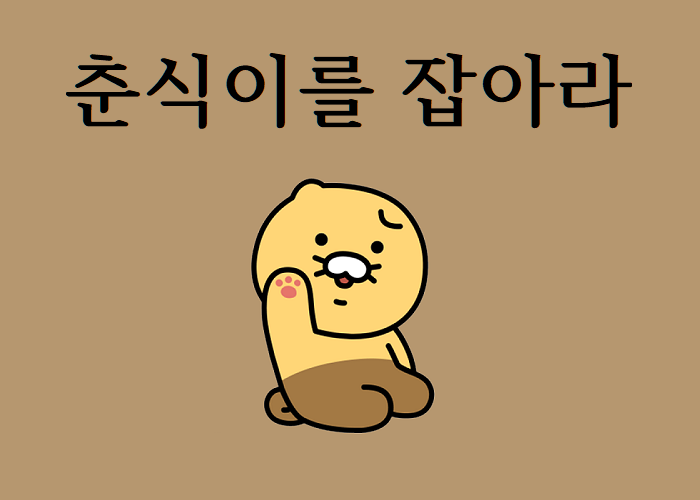
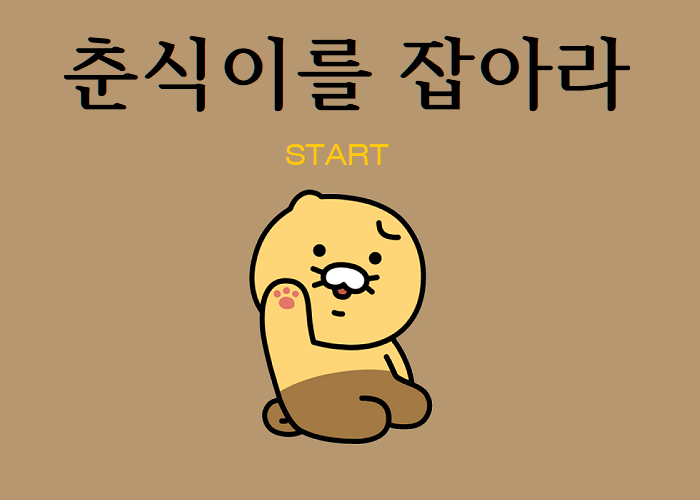
라이언 추가

Changed region(s): [[0.33, 0.36, 0.63, 0.9], [0.09, 0.06, 0.57, 0.33], [0.57, 0.06, 0.9, 0.27]]

diff --git a/Team2 - Lotto/src/Chunsik.java b/Team2 - Lotto/src/Chunsik.java
@@ -11,206 +11,235 @@ import java.util.Random;
 
 import javax.swing.ImageIcon;
 import javax.swing.JButton;
+import javax.swing.JFrame;
 import javax.swing.JLabel;
-import javax.swing.JPanel;
+import javax.swing.JOptionPane;
 import javax.swing.Timer;
 
-class ClickMe3 extends JPanel {
-	private JButton bt; // 설명버튼
-	private JButton btn; // 춘식이
-	private JButton btn2; // 안보이는 버튼
-	private JLabel lbltime;
-	private JLabel sign1;
-	private JLabel sign2;
-	private int time = 30;
+class ClickMe3 extends JFrame {
+	private JButton start;
+	private JButton chunsik;
+	private JButton jayG;
+	private JButton ryan;
+	private JButton restart;
+	private JLabel clearPage;
+	private JLabel losePage;
 	private Timer timer;
+	private JLabel lbltime;
+	private int time = 30;
 	private boolean gameStart = false;
-	private JButton btn3;
 
 	public ClickMe3() {
-		
-		ImageIcon hi = convertToIcon("게임설명.png", 800, 600);
-		ImageIcon icon = convertToIconGIF("춘식이.gif");
-//		ImageIcon icon1 = convertToIcon("시작.png", 100, 40);
-		ImageIcon icon2 = convertToIcon("다시3.png", 100, 40);
-		ImageIcon icon3 = convertToIcon("성공.png", 800, 600);
-		ImageIcon icon4 = convertToIcon("실패.png", 800, 600);
-		ImageIcon icon5 = convertToIconGIF("제이지.gif");
-		
+
+		ImageIcon startImage = convertToIcon("게임설명.png", 800, 600);
+		ImageIcon chunsikImage = convertToIconGIF("춘식이.gif");
+		ImageIcon jayGImage = convertToIconGIF("제이지.gif");
+		ImageIcon ryanImage = convertToIconGIF("라이언.gif");
+		ImageIcon restartImage = convertToIcon("다시.png", 150, 60);
+		ImageIcon clearPageImage = convertToIcon("성공.png", 800, 600);
+		ImageIcon losePageImage = convertToIcon("실패.png", 800, 600);
+
 		lbltime = new JLabel();
-		sign1 = new JLabel(icon3);
-		sign2 = new JLabel(icon4);
+		clearPage = new JLabel(clearPageImage);
+		losePage = new JLabel(losePageImage);
 		lbltime.setBounds(25, 20, 50, 50); // 시계 위치
 
-		ImagePanel pnl = new ImagePanel(new Methods().convertToIcon("겨울배경.png", 800, 600).getImage());
-		add(pnl); // 백그라운드 이미지 추가
-		
+		MyImageBackgroundPanel pnl = new MyImageBackgroundPanel(new Methods().background("겨울배경.png"));
+		add(pnl);
 
 		pnl.setLayout(null);
 		pnl.setPreferredSize(new Dimension(800, 600));
-		bt = new JButton();
-		btn = new JButton();
-		btn2 = new JButton("다시하기");
-		btn2.setBackground(new Color(0, 0, 0, 0));
-		btn3 = new JButton();
-		btn.setOpaque(false);
-		btn2.setBorderPainted(false);
-		btn2.setOpaque(false);
-		btn3.setOpaque(false);
-		bt.setIcon(hi); // 게임설명
-		btn.setIcon(icon); // 춘식이
-		btn2.setIcon(icon2); // 다시하기
-		btn3.setIcon(icon5);
-		
+		start = new JButton();
+		chunsik = new JButton();
+		jayG = new JButton();
+		ryan = new JButton();
+		restart = new JButton();
+		restart.setBackground(new Color(0, 0, 0, 0));
+		chunsik.setOpaque(false);
+		restart.setBorderPainted(false);
+		restart.setOpaque(false);
+		jayG.setOpaque(false);
+		ryan.setOpaque(false);
+		start.setIcon(startImage);
+		chunsik.setIcon(chunsikImage);
+		jayG.setIcon(jayGImage);
+		ryan.setIcon(ryanImage);
+		restart.setIcon(restartImage);
 
-		
-		sign1.setBounds(0, 0, 800, 600);
-		sign2.setBounds(0, 0, 800, 600);
-		btn.setBackground(new Color(255, 0, 0, 0));
-		btn3.setBackground(new Color(255, 0, 0, 0));
-		btn.setBorderPainted(false); // 테두리 없애기
-		btn3.setBorderPainted(false);
-		btn.setFocusPainted(false); // << 얘뭐임? ----------------------------------------------------궁금함
-		btn3.setFocusPainted(false); // 띠 없애기
-		bt.setBounds(0, 0, 800, 600); // 게임 설명으로 시작
-		btn.setBounds(280, 180, 120, 120); // 춘식
-		btn2.setBounds(650, 500, 130, 50); // 다시하기 버튼
-		btn3.setBounds(100, 100, 120, 120);
+		clearPage.setBounds(0, 0, 800, 600);
+		losePage.setBounds(0, 0, 800, 600);
+		chunsik.setBackground(new Color(255, 0, 0, 0));
+		jayG.setBackground(new Color(255, 0, 0, 0));
+		ryan.setBackground(new Color(255, 0, 0, 0));
+		chunsik.setBorderPainted(false);
+		chunsik.setFocusPainted(false);
+		jayG.setBorderPainted(false);
+		jayG.setFocusPainted(false);
+		ryan.setBorderPainted(false);
+		ryan.setFocusPainted(false);
+		restart.setBorderPainted(false); // 테두리 없애기
+		restart.setFocusPainted(false); // 띠 없애기
+		start.setBounds(0, 0, 800, 600);
+		chunsik.setBounds(400, 400, 120, 120);
+		jayG.setBounds(400, 400, 120, 120);
+		ryan.setBounds(400, 400, 120, 120);
+		restart.setBounds(550, 450, 150, 60);
 		pnl.add(lbltime);
-		pnl.add(bt);
-		pnl.add(btn);
-		pnl.add(btn2);
-		pnl.add(btn3);
-		pnl.add(sign1);
-		pnl.add(sign2);
+		pnl.add(start);
+		pnl.add(chunsik);
+		pnl.add(jayG);
+		pnl.add(ryan);
+		pnl.add(restart);
+		pnl.add(clearPage);
+		pnl.add(losePage);
 		lbltime.setFont(new Font("맑은 고딕", Font.BOLD, 30));
-		bt.setVisible(true);
-		btn2.setVisible(false); // 다시하기 감추기
-		btn3.setVisible(false);
-		sign1.setVisible(false);
-		sign2.setVisible(false);
+		start.setVisible(true);
+		jayG.setVisible(false);
+		ryan.setVisible(false);
+		restart.setVisible(false);
+		clearPage.setVisible(false);
+		losePage.setVisible(false);
 		lbltime.setVisible(false);
 
-		timer = new Timer(1000, new ActionListener() {
-			@Override
-			public void actionPerformed(ActionEvent e) {
-				if (!gameStart) {
-//					JOptionPane.showMessageDialog(null, "노는게 좋은 춘식이를 잡아주세요.", "춘식이는 배가 고파요.", JOptionPane.QUESTION_MESSAGE);
-				} else {
-					lbltime.setText(String.valueOf(time));
-					time--;
-					
-				}
-				if (time <= 0) {
-					timer.stop();
-					System.out.println("게임오버");
-					sign2.setVisible(true);
-					btn.setVisible(false);
-					lbltime.setVisible(false);
-					btn2.setVisible(true);
-					btn3.setVisible(false);
-
-				}
-			}
-		});
-		timer.start();
-		
-		Timer timer2 =new Timer(1000, new ActionListener() {
-			@Override
-			public void actionPerformed(ActionEvent e) {
-				Random r = new Random();
-				int x = r.nextInt(400);
-				int y = r.nextInt(400);
-				btn3.setLocation(x, y);
-			}
-		});
-		timer2.start();
-
-		bt.addMouseListener(new MouseAdapter() { // 시작화면 -------------------------------------
+		start.addMouseListener(new MouseAdapter() {
 
 			@Override
 			public void mouseClicked(MouseEvent e) {
 				lbltime.setVisible(true);
 				gameStart = true;
-				bt.setVisible(false);
+				start.setVisible(false);
 				timer.start();
-				btn3.setVisible(true);
+				jayG.setVisible(true);
+				ryan.setVisible(true);
 			}
 
 		});
-		
-		
-		
-		
-		btn.addMouseListener(new MouseAdapter() {
+
+		timer = new Timer(1000, new ActionListener() {
+			@Override
+			public void actionPerformed(ActionEvent e) {
+				if (!gameStart) {
+
+				} else {
+					lbltime.setText(String.valueOf(time));
+					time--;
+
+				}
+				if (time <= 0) {
+					timer.stop();
+					System.out.println("게임오버");
+					losePage.setVisible(true);
+					lbltime.setVisible(false);
+					restart.setVisible(true);
+					chunsik.setVisible(false);
+					jayG.setVisible(false);
+					ryan.setVisible(false);
+
+				}
+			}
+		});
+		timer.start();
+
+		Timer jayGMove = new Timer(1000, new ActionListener() {
+			@Override
+			public void actionPerformed(ActionEvent e) {
+				Random r = new Random();
+				int x = r.nextInt(400);
+				int y = r.nextInt(400);
+				jayG.setLocation(x, y);
+			}
+		});
+		jayGMove.start();
+
+		jayG.addMouseListener(new MouseAdapter() {
+
+			@Override
+			public void mouseClicked(MouseEvent e) {
+				time -= 3;
+			}
+
+		});
+
+		Timer ryanMove = new Timer(300, new ActionListener() {
+						@Override
+			public void actionPerformed(ActionEvent e) {
+				Random r = new Random();
+				int x = r.nextInt(800);
+				int y = r.nextInt(800);
+				ryan.setLocation(x, y);
+			}
+		});
+		ryanMove.start();
+
+		ryan.addMouseListener(new MouseAdapter() {
+
+			@Override
+			public void mouseClicked(MouseEvent e) {
+				time += 1;
+
+			}
+
+		});
+
+		chunsik.addMouseListener(new MouseAdapter() {
 
 			@Override
 			public void mouseEntered(MouseEvent e) {
 				Random r = new Random();
-				int x = r.nextInt(400);
-				int y = r.nextInt(400);
-				btn.setLocation(400, 400); // 춘식이 위치 이동 ----------------------------------------------------
-				
-//				int num = r.nextInt(5);
-//				 String name = "chunsic/" + "춘식" + num + ".png";
-//				 btn.setIcon(convertToIcon(name, 80, 80));
+				int x = r.nextInt(430);
+				int y = r.nextInt(430);
+				chunsik.setLocation(x, y); //----------------------------------------------------------------------------------------
+
 			}
 
 			@Override
 			public void mouseClicked(MouseEvent e) {
 				timer.stop();
-				btn.setVisible(false);
-				btn2.setVisible(true);
-				sign1.setVisible(true);
+				chunsik.setVisible(false);
+				restart.setVisible(true);
+				clearPage.setVisible(true);
 				lbltime.setVisible(false);
-				btn3.setVisible(false);
+				jayG.setVisible(false);
+				ryan.setVisible(false);
 			}
 
 		});
-		
-		btn2.addMouseListener(new MouseAdapter() { // 다시하기 다시하기 다시하기 다시하기 다시하기 다시하기 다시하기 다시하기 
+
+		restart.addMouseListener(new MouseAdapter() {
 
 			@Override
 			public void mouseEntered(MouseEvent e) {
-				btn2.setIcon(convertToIcon("다시3.png", 100, 40));
+				restart.setIcon(convertToIcon("다시깜빡.png", 150, 60));
 			}
-			
+
 			@Override
 			public void mouseExited(MouseEvent e) {
-				btn2.setIcon(convertToIcon("다시3.png", 100, 40));
+				restart.setIcon(convertToIcon("다시.png", 150, 60));
 			}
 
 			@Override
-			public void mouseClicked(MouseEvent e) { // 다시하기 누를때
+			public void mouseClicked(MouseEvent e) {
 				time = 30;
 				timer.stop();
-				btn.setVisible(true); // 춘식이
-				btn2.setVisible(false); // 다시하기버튼
-				sign1.setVisible(false); // 게임 설명
-				lbltime.setVisible(true); // 시간
-				bt.setVisible(true); // 
-				sign2.setVisible(false);
-				btn3.setVisible(true);
-			}
-
-		});
-		
-		btn3.addMouseListener(new MouseAdapter() { // 제이지
-
-			@Override
-			public void mouseClicked(MouseEvent e) { // 시간을 깎음
-				time -= 10;
+				chunsik.setVisible(true);
+				restart.setVisible(false);
+				clearPage.setVisible(false);
+				lbltime.setVisible(true);
+				start.setVisible(true);
+				losePage.setVisible(false);
+				jayG.setVisible(true);
+				ryan.setVisible(true);
 			}
 
 		});
 
 		add(pnl);
 
-
+		pack();
 		setSize(800, 600);
-		setVisible(true); // 창이 보인다
+		setDefaultCloseOperation(EXIT_ON_CLOSE);
+		setVisible(true);
 	}
-	
 
 	public ImageIcon convertToIcon(String name, int width, int height) {
 		String imageName = name;
@@ -245,10 +274,8 @@ class ClickMe3 extends JPanel {
 	}
 }
 
-	
 public class Chunsik {
 	public static void main(String[] args) {
-		ClickMe3 frame = new ClickMe3(); // 창이 나옴
+		ClickMe3 frame = new ClickMe3();
 	}
 }
-
